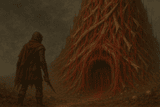
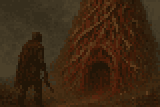
New items and more testing utils
added more types of healing scrolls and spells.
Centered class select and shop rooms
new cheats. Theese are activation based and do individual stuff.
- Change game world to the shop
- Increment current floor up / down
Fixed cheat activation only working when cheats are enabled for F3
Cheats.
Changed main menue image for more pixelated version real art still
needed tho

diff --git a/Code/input_handlers.py b/Code/input_handlers.py
@@ -8,7 +8,7 @@ from actions import Action, BumpAction, WaitAction, PickupAction
 import color
 import exceptions
 import libtcodpy
-from components.settings import CHEATS, GENERAL_CHEATS
+from components.settings import CHEATS, GENERAL_CHEATS, GENERAL_CHEAT_ACTIVATIONS
 
 # from procgen import item_chances, enemy_chances
 # from components.procgen_chances import item_chances
@@ -952,8 +952,10 @@ class MainGameEventHandler(EventHandler):
             return CheatActiveHandler(self.engine)
         elif key == tcod.event.KeySym.F2 and CHEATS:
             return EnemyCheatActiveHandler(self.engine)
-        elif key == tcod.event.KeySym.F3:
+        elif key == tcod.event.KeySym.F3 and CHEATS:
             return GerneralCheatActiveHandler(self.engine)
+        elif key == tcod.event.KeySym.F4 and CHEATS:
+            return GerneralCheatActivationActiveHandler(self.engine)
         # No valid key was pressed
         # action = None
         return action
@@ -1270,3 +1272,64 @@ class GerneralCheatActiveHandler(GeneralCheats):
             GENERAL_CHEATS[cheat] = False
         else:
             GENERAL_CHEATS[cheat] = True
+
+
+class GeneralCheatsActivaions(AskUserEventHandler):
+    TITLE = "Gerneral Cheats to Activate"
+
+    def on_render(self, console):
+        super().on_render(console)
+        x = 0
+        y = 0
+        title = f"{self.TITLE}"
+        width = len(title) + 15
+
+        console.draw_frame(
+            x=x,
+            y=y,
+            width=width,
+            height=40,
+            title=title,
+            clear=True,
+            fg=(255, 255, 255),
+            bg=(0, 0, 0),
+        )
+        # this increment is for not writin in title line
+        y += 1
+        for i, cheat in enumerate(GENERAL_CHEAT_ACTIVATIONS):
+            cheatKey = chr(ord("a") + i)
+            cheatString = f"({cheatKey}) {cheat:<17}"
+            console.print(x + 1, y + i + 1, cheatString)
+
+    def ev_keydown(self, event) -> Optional[ActionOrHandler]:
+        key = event.sym
+        index = key - tcod.event.KeySym.A
+
+        if 0 <= index <= 26:
+            try:
+                cheatSelected = list(GENERAL_CHEAT_ACTIVATIONS)[index]
+            except IndexError:
+                self.engine.message_log.add_message(
+                    "Invalid input slot.", color.invalid
+                )
+                return None
+            return self.on_cheat_select(cheatSelected)
+        return super().ev_keydown(event)
+
+
+class GerneralCheatActivationActiveHandler(GeneralCheatsActivaions):
+    def on_cheat_select(self, cheat) -> Optional[ActionOrHandler]:
+        from procgen import generate_shop_room
+
+        match cheat:
+            case "spawn_shop":
+                self.engine.game_map = generate_shop_room(
+                    engine=self.engine,
+                    map_width=100,
+                    map_height=100,
+                    current_floor=self.engine.game_world.current_floor,
+                )
+            case "current_floor_+":
+                self.engine.game_world.current_floor += 1
+            case "current_floor_-":
+                self.engine.game_world.current_floor -= 1

diff --git a/Code/procgen.py b/Code/procgen.py
@@ -117,6 +117,7 @@ item_chances: Dict[int, List[Tuple[Entity, int]]] = {
         # Mid-tier legs
         (entity_factory.vein_wrapped_leggings, 2),
         (entity_factory.tendon_laced_pants, 1),
+        (entity_factory.healing_scrollII, 4),
     ],
     3: [
         # Rare mid-high items start appearing
@@ -155,6 +156,7 @@ item_chances: Dict[int, List[Tuple[Entity, int]]] = {
         (entity_factory.ossified_armlet, 1),
         (entity_factory.marrowstrap, 1),
         (entity_factory.pulsing_calfwraps, 1),
+        (entity_factory.healing_scrollIII, 3),
     ],
     5: [
         (entity_factory.thrall_reaver, 2),
@@ -469,9 +471,9 @@ def generate_class_select(
     # create new dungeon
     player = engine.player
     dungeon = GameMap(engine, map_width, map_height, entities=[player])
-    # randomly get the position of the room
-    x = random.randint(0, dungeon.width - room_width - 1)
-    y = random.randint(0, dungeon.height - room_height - 1)
+    # center this room
+    y = engine.game_world.map_height // 4
+    x = engine.game_world.map_width // 4
     # creates the rect room
     new_room = RectangularRoom(x, y, room_width, room_height)
 
@@ -500,9 +502,9 @@ def generate_shop_room(
     # create new dungeon
     player = engine.player
     dungeon = GameMap(engine, map_width, map_height, entities=[player])
-    # randomly get the position of the room
-    x = random.randint(0, dungeon.width - room_width - 1)
-    y = random.randint(0, dungeon.height - room_height - 1)
+    y = engine.game_world.map_height // 4
+    x = engine.game_world.map_width // 4
+
     # creates the rect room
     new_room = RectangularRoom(x, y, room_width, room_height)
 

diff --git a/Code/render_functions.py b/Code/render_functions.py
@@ -112,8 +112,8 @@ def render_names_at_mouse_location(
 ) -> None:
     o_x, o_y, e_x, e_y = engine.game_map.get_viewport()
     mouse_x, mouse_y = engine.mouse_location
-    mouse_x = int(mouse_x+o_x)
-    mouse_y = int(mouse_y+o_y)
+    mouse_x = int(mouse_x + o_x)
+    mouse_y = int(mouse_y + o_y)
 
     names_at_mouse_location = get_names_at_location(
         x=mouse_x, y=mouse_y, game_map=engine.game_map
@@ -122,7 +122,9 @@ def render_names_at_mouse_location(
         names_at_mouse_location = engine.message_log.wrap(names_at_mouse_location, 30)
         for i, line in enumerate(names_at_mouse_location):
             console.print(x=0, y=0 + i, string=line)
-    elif(len(names_at_mouse_location) > 0):
+    elif len(names_at_mouse_location) > 0:
         console.print(
-            x=int(mouse_x-o_x), y=int(mouse_y-o_y) - 1, string=names_at_mouse_location
+            x=int(mouse_x - o_x),
+            y=int(mouse_y - o_y) - 1,
+            string=names_at_mouse_location,
         )

diff --git a/Code/entity_factory.py b/Code/entity_factory.py
@@ -416,11 +416,30 @@ lightning_scroll = Item(
 
 healing_scrollI = Item(
     char="~",
-    color=(0, 255, 0),
+    color=(0, 100, 0),
     name="Scroll of Healing I",
     consumable=consumable.HealingConsumable(amount=10),
     effect=HealingScrollEffect(spellName="Healing I", mana_cost=10, healing=10),
     price=20,
+)
+
+
+healing_scrollII = Item(
+    char="~",
+    color=(0, 150, 0),
+    name="Scroll of Healing II",
+    consumable=consumable.HealingConsumable(amount=15),
+    effect=HealingScrollEffect(spellName="Healing II", mana_cost=15, healing=15),
+    price=40,
+)
+
+healing_scrollIII = Item(
+    char="~",
+    color=(0, 255, 0),
+    name="Scroll of Healing III",
+    consumable=consumable.HealingConsumable(amount=30),
+    effect=HealingScrollEffect(spellName="Healing III", mana_cost=20, healing=30),
+    price=40,
 )
 
 confusion_scroll = Item(

diff --git a/Code/components/settings.py b/Code/components/settings.py
@@ -5,6 +5,8 @@ GENERAL_CHEATS = {
     "inf_stamina": False,
     "noclip": False,
 }
+GENERAL_CHEAT_ACTIVATIONS = ["spawn_shop", "current_floor_+", "current_floor_-"]
+
 
 # DON'T CHANGE these here are purley for informing the player via keybinds on main meue
 KEYBINDS = {
